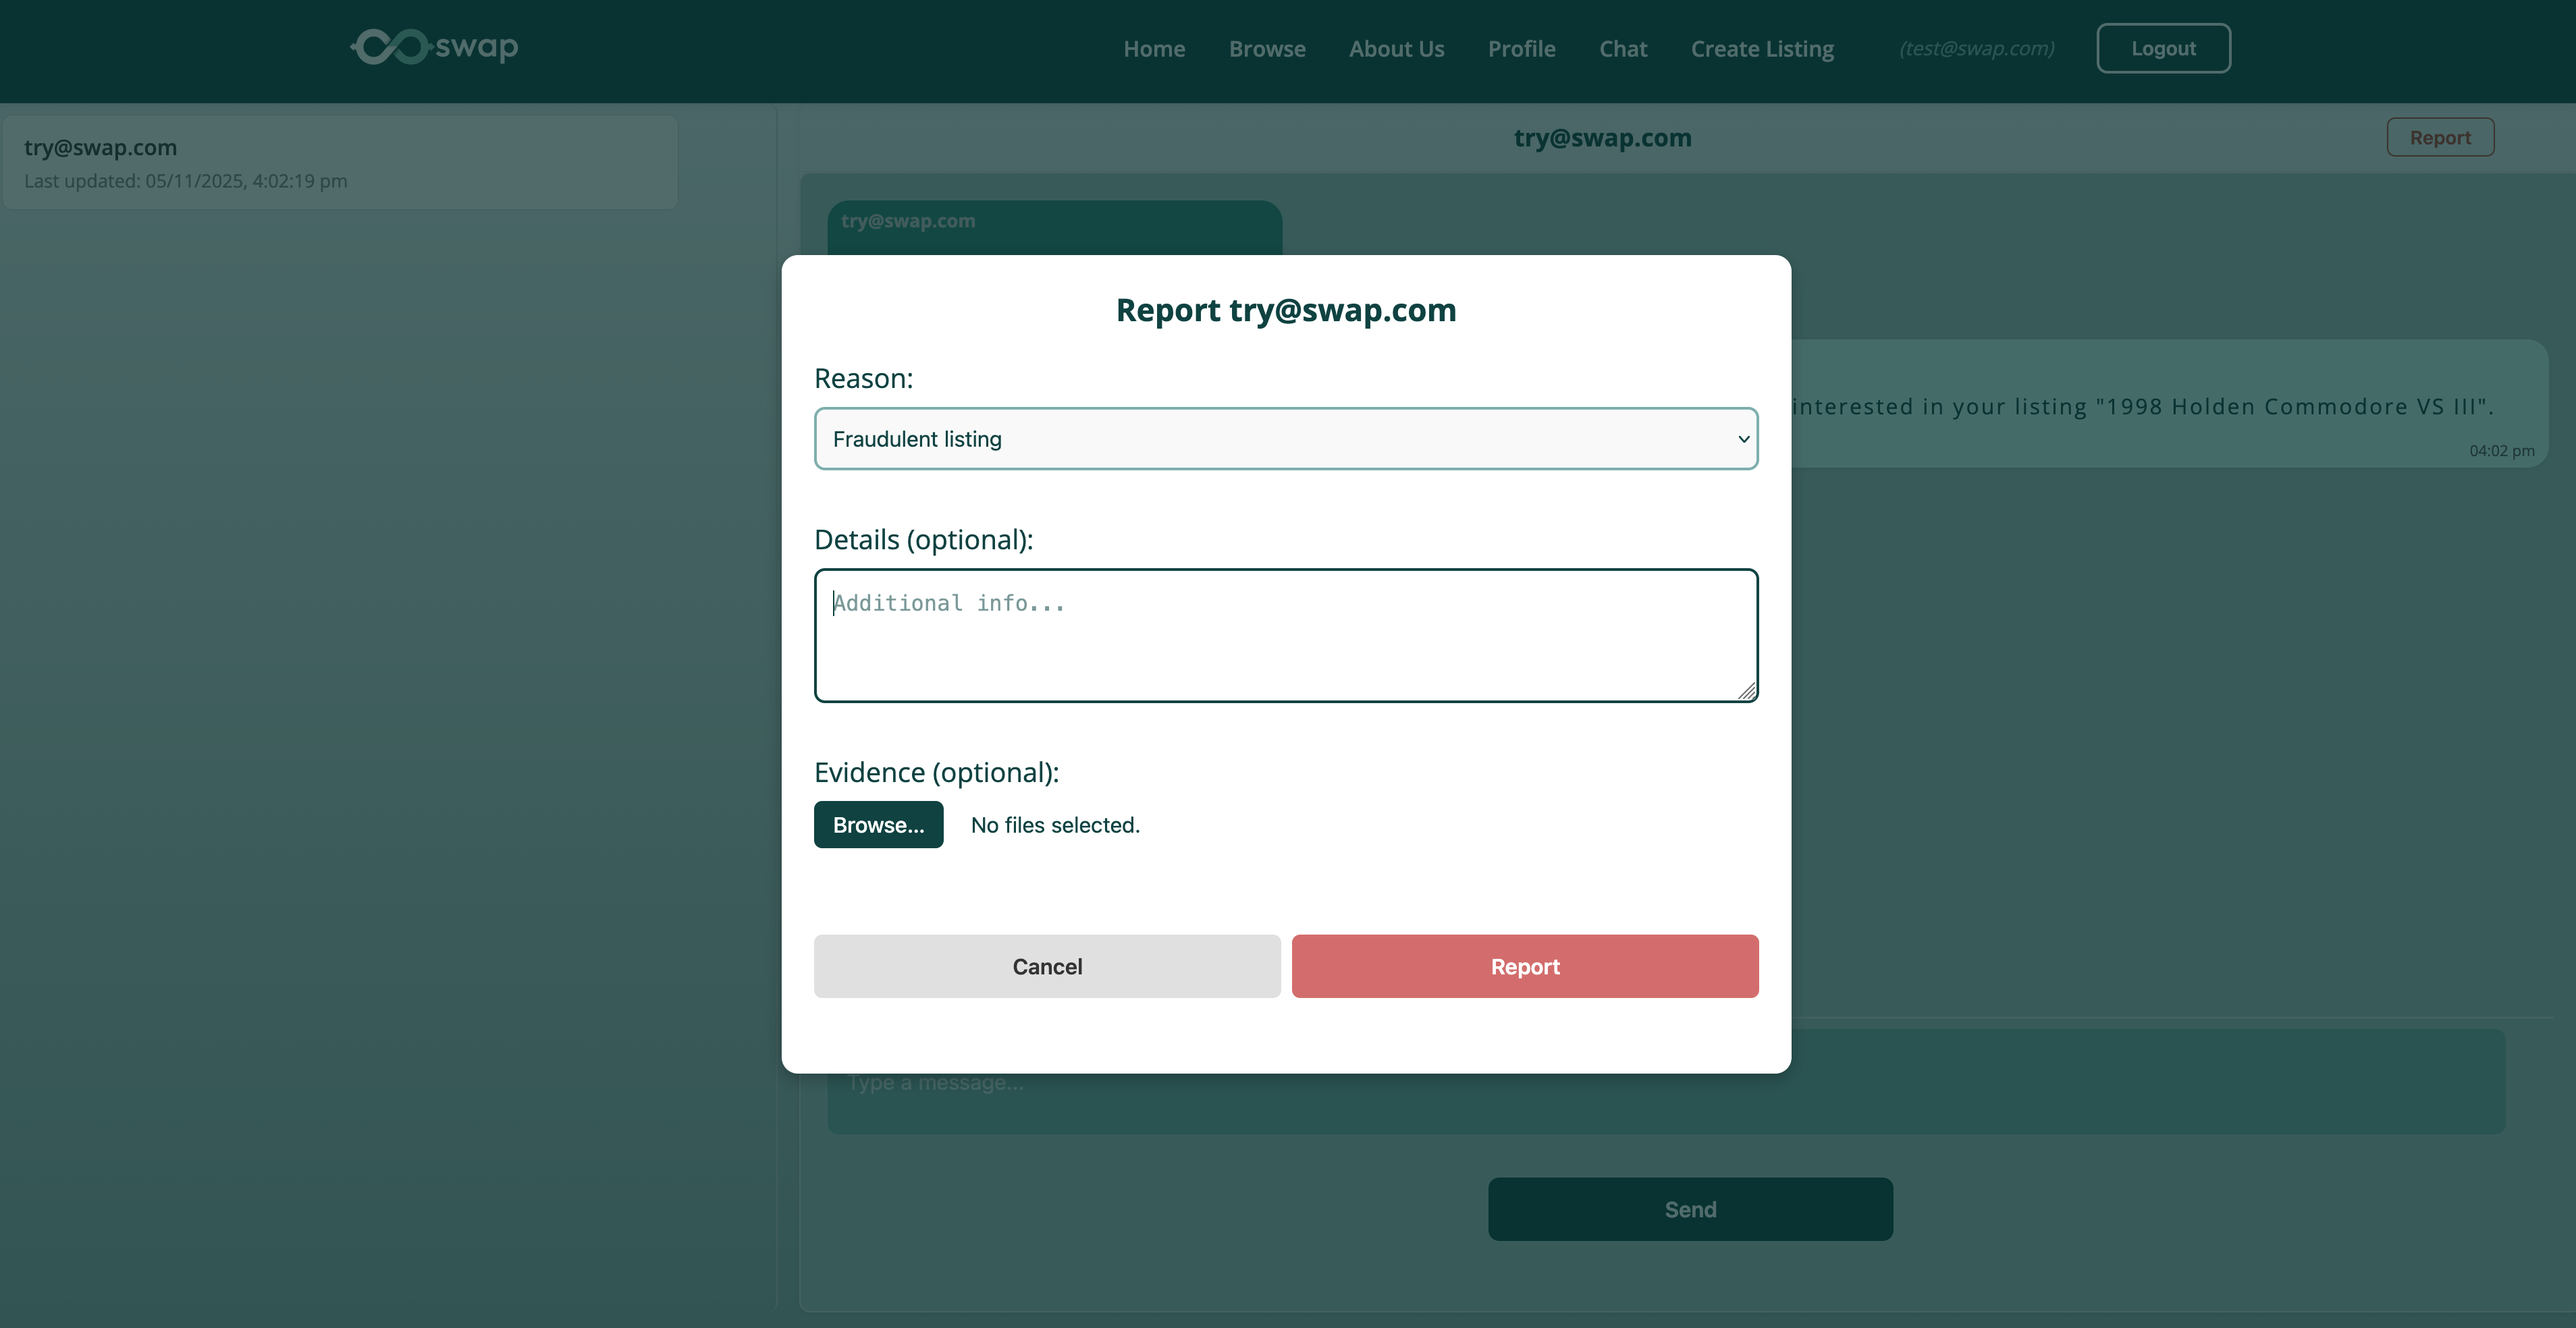
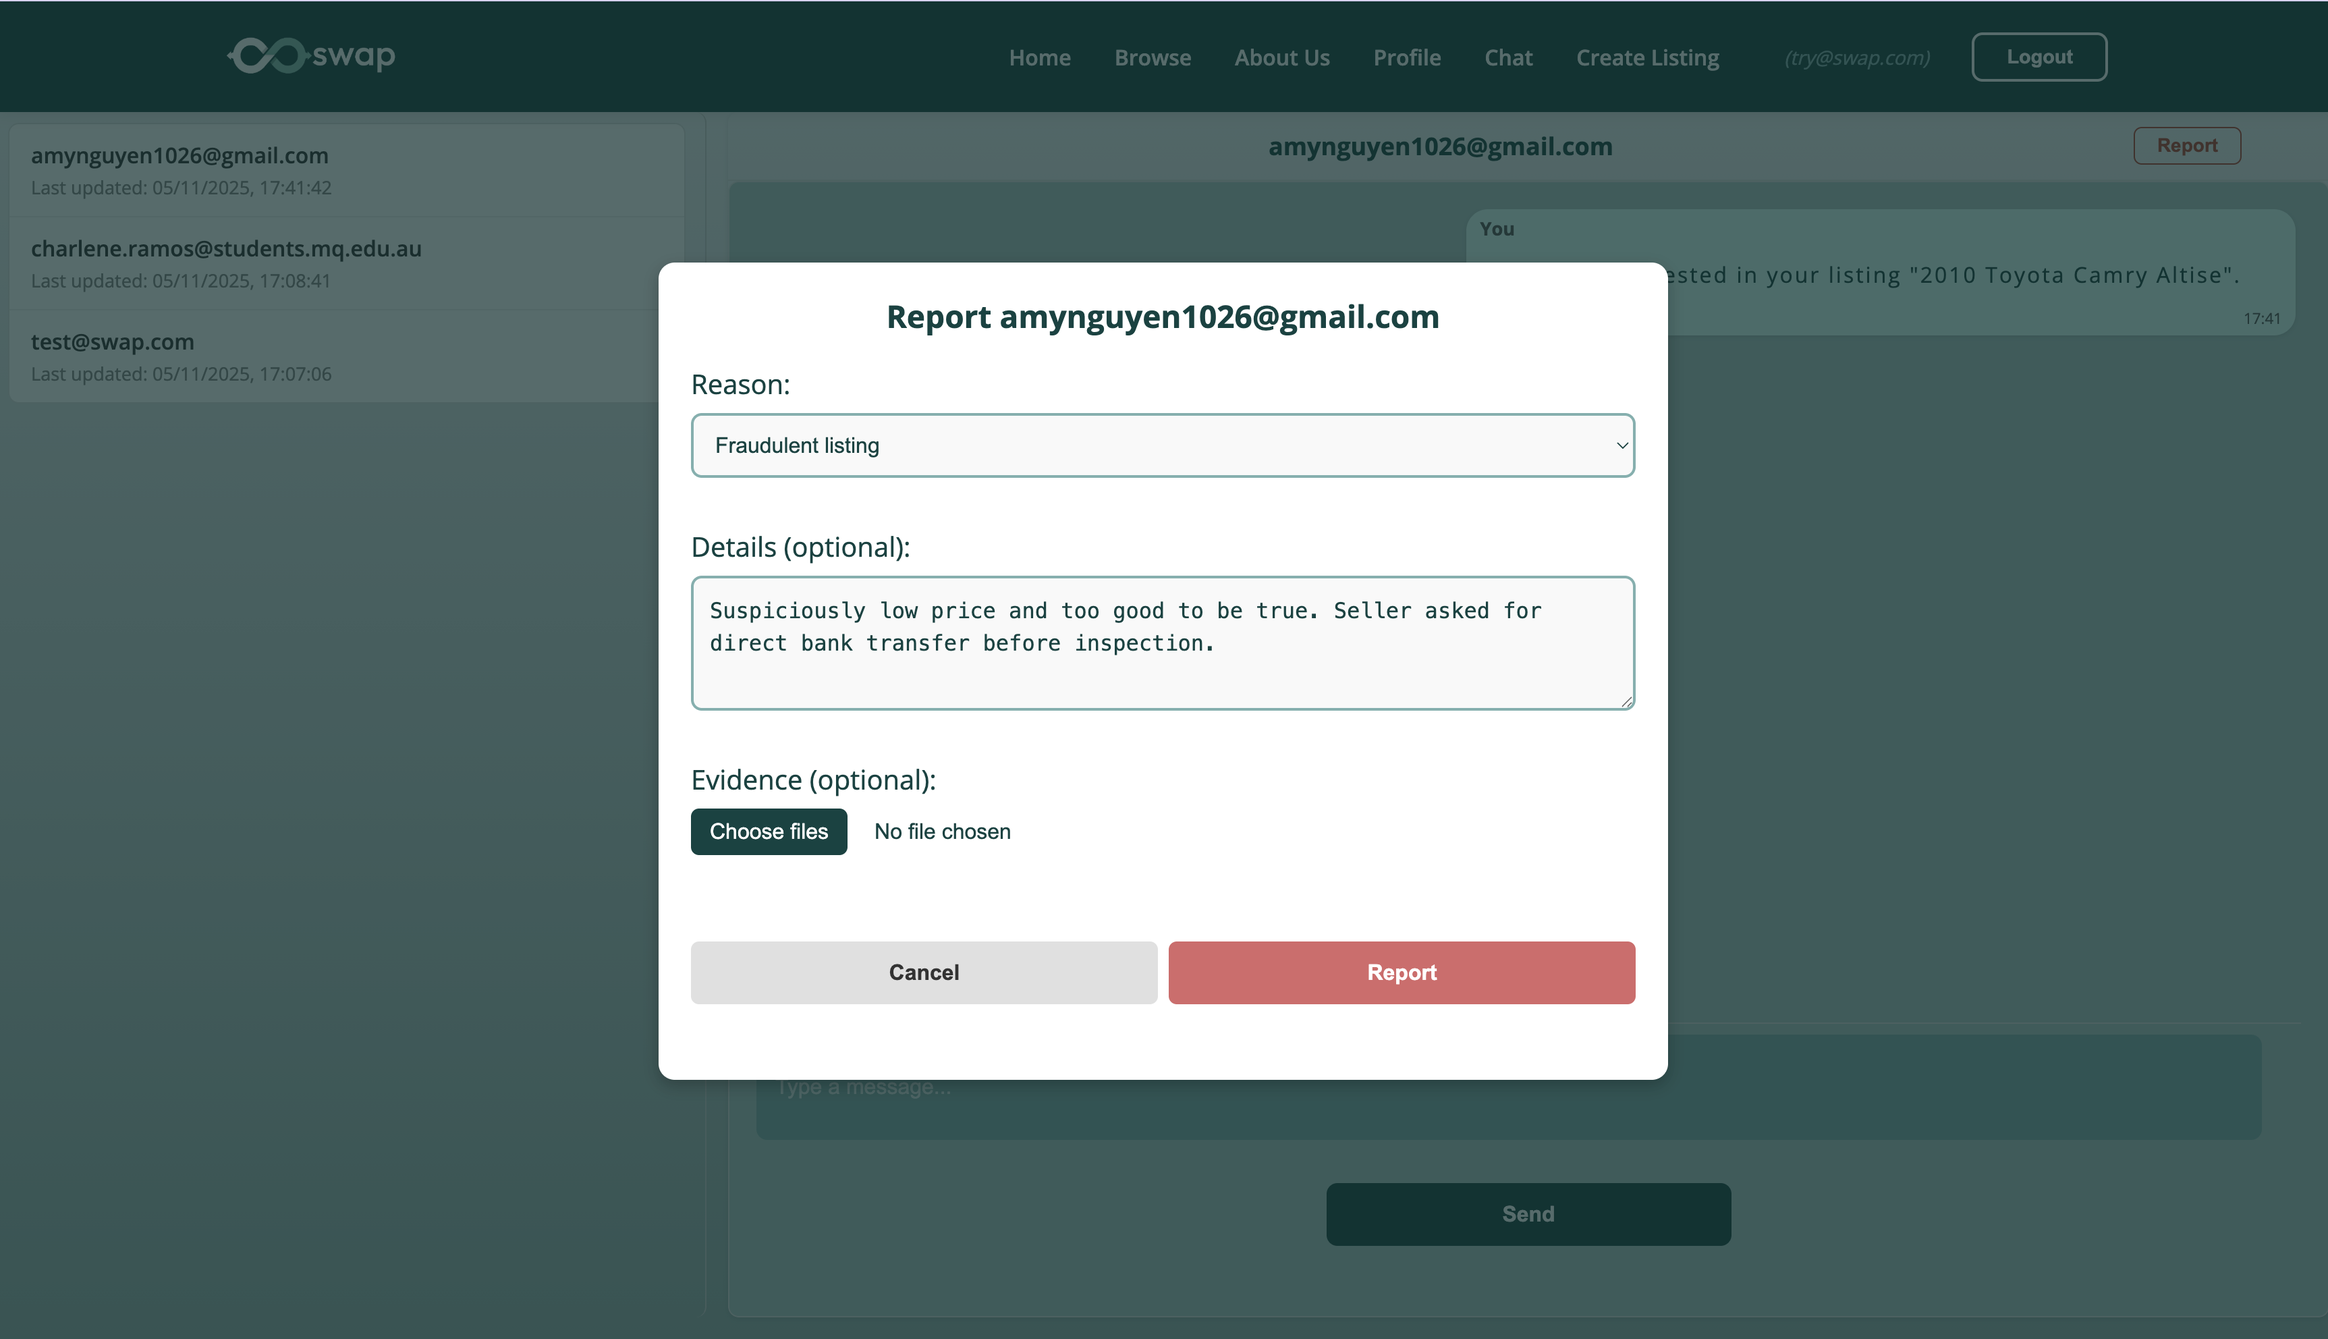
update README.md for SCREENSHOTS with reporting feature

diff --git a/SCREENSHOTS/README.md b/SCREENSHOTS/README.md
@@ -125,7 +125,16 @@ This folder contains screenshots demonstrating the key features and user interfa
 
 ### Report Modal
 ![Report User](report-modal.png)
-**Description:** Modal for reporting suspicious users or fraudulent listings. Includes reason dropdown and description text area. Reports are sent to admin review.
+![Report User](report-email-sent.png)
+![Report User](report-suspicious-account-chat.png)
+![Report User](report-suspicious-account-listing.png)
+![Report User](report-suspicious-account-cant-login.png)
+**Description:** Modal for reporting suspicious users or fraudulent listings. Includes reason dropdown and description text area. Reports are sent to admin review. Users can select a reason from a dropdown and provide additional details in a text area. Upon submission:
+- The reported user account is temporarily deactivated. The user cannot log in.
+- The reported user receives an email informing them of the deactivation and pending investigation.
+- All conversations involving the reported user are deactivated. Other users cannot send or receive messages from that account.
+- All listings of the reported user are flagged in the marketplace to prevent further transactions.
+- Admin investigates the report. Once the investigation is complete and the account is cleared, the admin can reactivate the user. Upon reactivation, the account, listings, and chat access are restored to normal functionality.
 
 ### About Us Page
 ![About Us](about-us.png)
